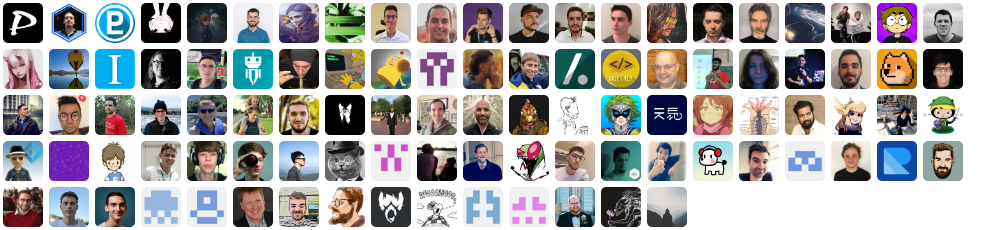
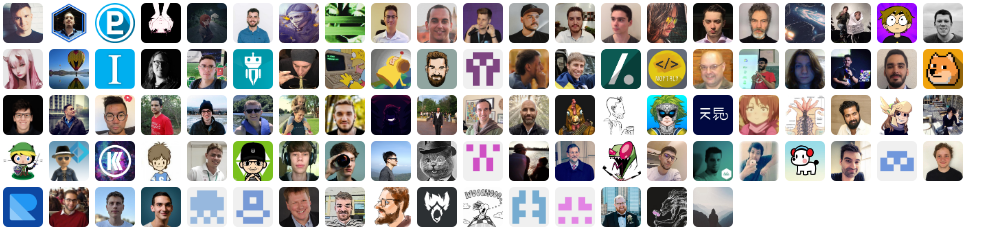
Release 4.0.0

diff --git a/src/scripts/preview/index.ts b/src/scripts/preview/index.ts
@@ -25,5 +25,5 @@ const folderThemes = filterDuplicates(folderIcons.map(theme => {
     return [].concat(...folders);
 }).reduce((a, b) => a.concat(b))).map(i => ({ iconName: i, label: i.replace('folder-', '') }));
 
-generatePreview('fileIcons', basicFileIcons, 5, ['powerpoint', 'virtual', 'todo']);
+generatePreview('fileIcons', basicFileIcons, 5, []);
 generatePreview('folderIcons', folderThemes, 5, ['folder-wakatime']);

diff --git a/CHANGELOG.md b/CHANGELOG.md
@@ -1,4 +1,25 @@
 # Changelog
+## 4.0.0 (2020-03-01)
+
+Minimum supported version is now set to VS Code v1.31.
+
+### New file icons
+- Coconut ([issue #500](https://github.com/PKief/vscode-material-icon-theme/issues/500))
+- *.azure-pipelines.yaml ([@robinmanuelthiel](https://github.com/robinmanuelthiel) in [#636](https://github.com/PKief/vscode-material-icon-theme/pull/636))
+- .huskyrc.js ([@jinliming2](https://github.com/jinliming2) in [#642](https://github.com/PKief/vscode-material-icon-theme/pull/642))
+- Capacitor ([@PKief](https://github.com/PKief) in commit [a227490](https://github.com/PKief/vscode-material-icon-theme/commit/a2274907082f7fc46f5a462211cd26ddc2aaa011))
+- Sketch ([@PKief](https://github.com/PKief) in commit [32f3e1d](https://github.com/PKief/vscode-material-icon-theme/commit/32f3e1d978b3ffd2d08b76675bb393502bf41a4f))
+
+### Updated icons
+- Ruby ([@PKief](https://github.com/PKief) in commit [f533d23](https://github.com/PKief/vscode-material-icon-theme/commit/f533d23f99b78917943bbe37988b8f958055195a))
+
+### Improvements
+- Extension can now be used as workspace extension in VS Code Remote Container Development ([issue #643](https://github.com/PKief/vscode-material-icon-theme/issues/643))
+- Reload of the editor is not required anymore
+- Remove "open" dependency ([issue #386](https://github.com/PKief/vscode-material-icon-theme/issues/386))
+- Migration from TSLint to ESLint ([@PKief](https://github.com/PKief) in commit [cd9930f](https://github.com/PKief/vscode-material-icon-theme/commit/cd9930f5f24c068a8850c684e4c4609ddcbd8917))
+- Add VSCode extension recommendations ([@PKief](https://github.com/PKief) in commit [96fe5fe](https://github.com/PKief/vscode-material-icon-theme/commit/96fe5fecea31230657948f5c6e6bb9c1271384f1))
+
 ## 3.9.3 (2020-02-09)
 ### New file icons
 - Liquid ([@fapolo](https://github.com/fapolo) in [#594](https://github.com/PKief/vscode-material-icon-theme/pull/594))

diff --git a/LICENSE.md b/LICENSE.md
@@ -1,5 +1,5 @@
 The MIT License (MIT)
-Copyright (c) 2019 Philipp Kief
+Copyright (c) 2020 Philipp Kief
 
 Permission is hereby granted, free of charge, to any person obtaining a copy of this software and associated documentation files (the "Software"), to deal in the Software without restriction, including without limitation the rights to use, copy, modify, merge, publish, distribute, sublicense, and/or sell copies of the Software, and to permit persons to whom the Software is furnished to do so, subject to the following conditions:
 
